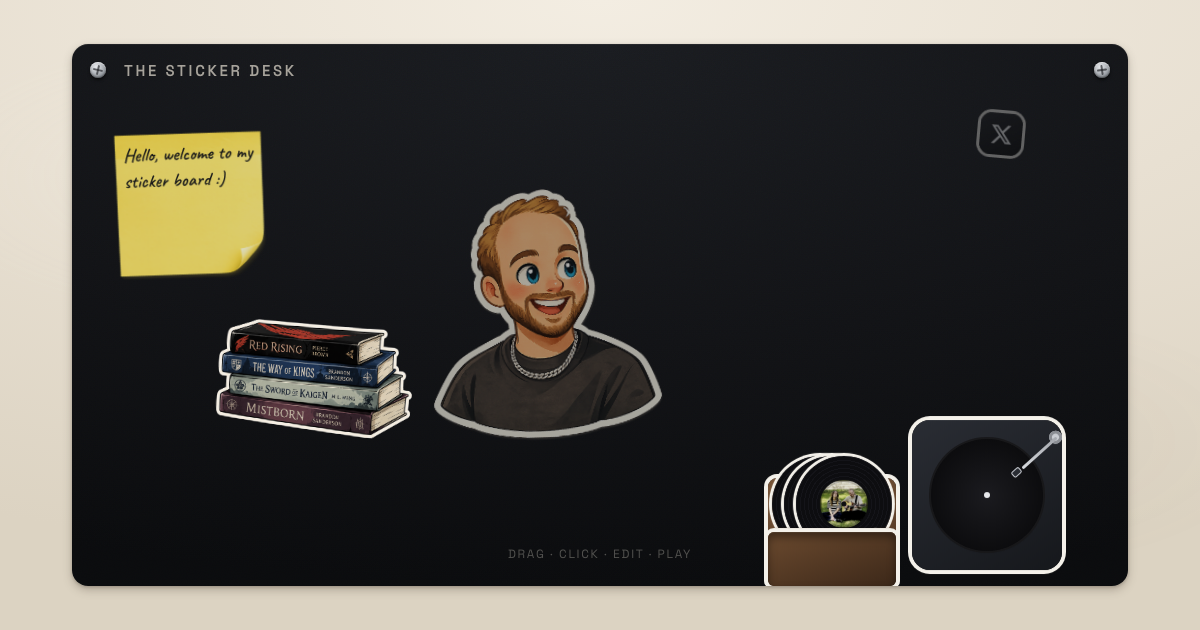
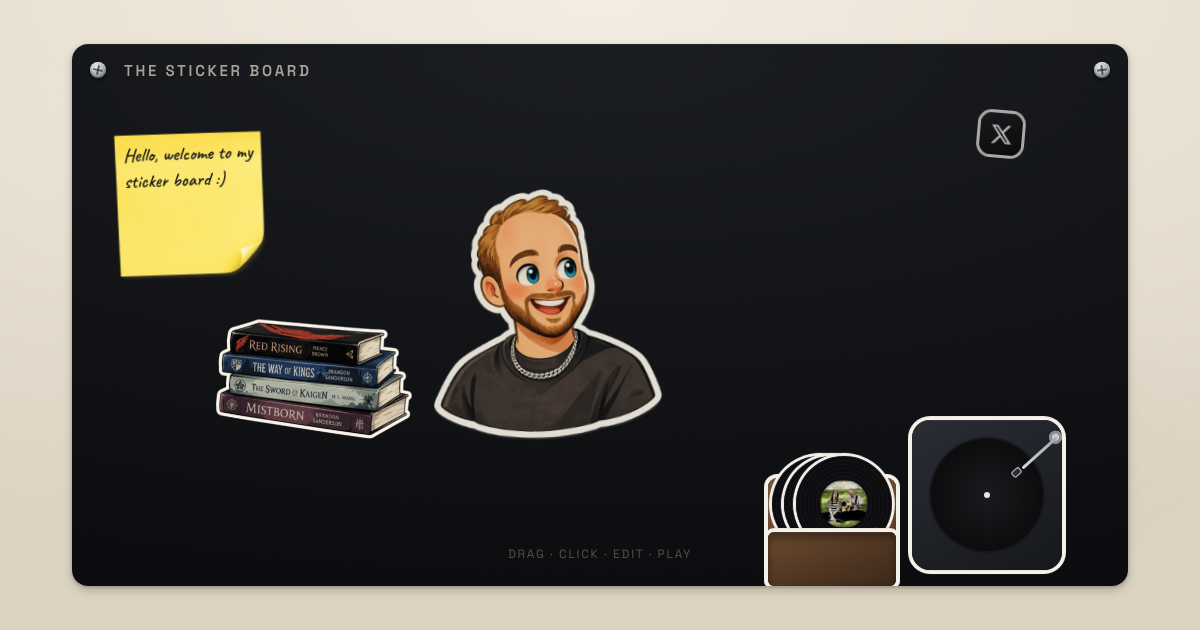
Rename 'The Sticker Desk' -> 'The Sticker Board'
Per feedback, 'Desk' didn't fit the scene. Rename everywhere: on-board H1, tab
title, OG/Twitter tags + descriptions, placeholder deploy domain, README, and a
stray comment. Regenerate og-image.png with the new title.

diff --git a/index.html b/index.html
@@ -3,33 +3,33 @@
   <head>
     <meta charset="UTF-8" />
     <meta name="viewport" content="width=device-width, initial-scale=1.0" />
-    <title>The Sticker Desk — a playful little world</title>
+    <title>The Sticker Board — a playful little world</title>
     <meta
       name="description"
-      content="An interactive sticker desk. Drag the objects, edit the sticky note, drop a record on the turntable to play."
+      content="An interactive sticker board. Drag the objects, edit the sticky note, drop a record on the turntable to play."
     />
     <meta name="theme-color" content="#1c1b1a" />
     <link rel="icon" type="image/svg+xml" href="/favicon.svg" />
 
     <!-- Update these absolute URLs to the real domain after deploying (see README → Deploy) -->
     <meta property="og:type" content="website" />
-    <meta property="og:url" content="https://sticker-desk.vercel.app/" />
-    <meta property="og:title" content="The Sticker Desk — a playful little world" />
+    <meta property="og:url" content="https://sticker-board.vercel.app/" />
+    <meta property="og:title" content="The Sticker Board — a playful little world" />
     <meta
       property="og:description"
-      content="An interactive sticker desk. Drag the objects, edit the sticky note, drop a record on the turntable to play."
+      content="An interactive sticker board. Drag the objects, edit the sticky note, drop a record on the turntable to play."
     />
-    <meta property="og:image" content="https://sticker-desk.vercel.app/og-image.png" />
+    <meta property="og:image" content="https://sticker-board.vercel.app/og-image.png" />
     <meta property="og:image:width" content="1200" />
     <meta property="og:image:height" content="630" />
 
     <meta name="twitter:card" content="summary_large_image" />
-    <meta name="twitter:title" content="The Sticker Desk — a playful little world" />
+    <meta name="twitter:title" content="The Sticker Board — a playful little world" />
     <meta
       name="twitter:description"
-      content="An interactive sticker desk. Drag the objects, edit the sticky note, drop a record on the turntable to play."
+      content="An interactive sticker board. Drag the objects, edit the sticky note, drop a record on the turntable to play."
     />
-    <meta name="twitter:image" content="https://sticker-desk.vercel.app/og-image.png" />
+    <meta name="twitter:image" content="https://sticker-board.vercel.app/og-image.png" />
 
     <link rel="preconnect" href="https://fonts.googleapis.com" />
     <link rel="preconnect" href="https://fonts.gstatic.com" crossorigin />

diff --git a/src/components/Sticker/Sticker.css b/src/components/Sticker/Sticker.css
@@ -11,7 +11,7 @@
 }
 
 /* Lifted off the board while dragging: a tight, close shadow appears so it
-   reads as lifted just an inch off the desk. It vanishes the moment it's
+   reads as lifted just an inch off the board. It vanishes the moment it's
    placed. */
 .sticker.is-lifted {
   cursor: grabbing;

diff --git a/src/App.jsx b/src/App.jsx
@@ -145,7 +145,7 @@ export default function App() {
         <span className="pad-screw pad-screw--right" aria-hidden="true" />
 
         <div className="pad-intro">
-          <h1>The Sticker Desk</h1>
+          <h1>The Sticker Board</h1>
         </div>
 
         <RecordPlayer

diff --git a/README.md b/README.md
@@ -1,8 +1,8 @@
-# The Sticker Desk
+# The Sticker Board
 
-A playful, interactive "creative desk" microsite — a dark board scattered with
-draggable sticker objects. A personal portfolio experiment, not tied to any
-brand or product.
+A playful, interactive microsite — a dark board scattered with draggable
+sticker objects. A personal portfolio experiment, not tied to any brand or
+product.
 
 ## Run it
 
@@ -13,7 +13,7 @@ npm run build    # production build into /dist
 npm run preview  # preview the production build
 ```
 
-## What's on the desk
+## What's on the board
 
 | Object | What it does |
 | --- | --- |
@@ -24,7 +24,7 @@ npm run preview  # preview the production build
 | **Book stack** (bottom-left) | Click to fan out four book covers. Click any cover to flip it and read the tags + a favorite quote. |
 | **X badge** (top-right) | Opens my X / Twitter profile in a new tab. |
 
-Every object is **draggable** anywhere on the desk and lifts to the front when
+Every object is **draggable** anywhere on the board and lifts to the front when
 you grab it. Hovering gives a subtle scale + shadow lift.
 
 ## How it's built
@@ -53,11 +53,11 @@ output directory `dist`. No extra config needed.
 After deploying, update the absolute social-card URLs in `index.html`
 (`og:url`, `og:image`, `twitter:image`) to your real domain so link previews
 resolve. A 1200×630 preview image lives at `public/og-image.png` — regenerate it
-from a screenshot of the live desk if you rearrange things.
+from a screenshot of the live board if you rearrange things.
 
 ## Notes
 
-- Designed for desktop / larger viewports (it's a spatial "desk").
+- Designed for desktop / larger viewports (it's a spatial "board").
 - Respects `prefers-reduced-motion`: CSS animations and the JS entrance/ambient
   motion are neutralized; drag/hover/dock feedback (user-initiated) stays.
 - Keyboard: the book stack and X badge are focusable and activate with

diff --git a/POLISH-CHANGELOG.md b/POLISH-CHANGELOG.md
@@ -134,3 +134,14 @@ _(Entries added as work proceeds. Each lists: what, why, files, commit, revert.)
   and full-size PNGs.
 - **Revert:** `git revert b10f80d` (or restore originals from baseline
   `e4ab766`).
+
+### 8. Rename "The Sticker Desk" → "The Sticker Board" (user feedback)
+- **What:** Reverted the earlier name choice (items 2 & 4). The product is now
+  "The Sticker Board" everywhere: on-board H1, tab `<title>`, OG/Twitter titles
+  + descriptions, placeholder deploy domain (`sticker-board.vercel.app`), README,
+  and a stray "desk" metaphor in `Sticker.css`. Regenerated `public/og-image.png`
+  so the card shows the new title.
+- **Why:** "Desk" didn't fit; the scene reads as a board of stickers.
+- **Files:** `src/App.jsx`, `index.html`, `README.md`,
+  `src/components/Sticker/Sticker.css`, `public/og-image.png`.
+- **Revert:** `git revert <this commit>` (restores "The Sticker Desk").
